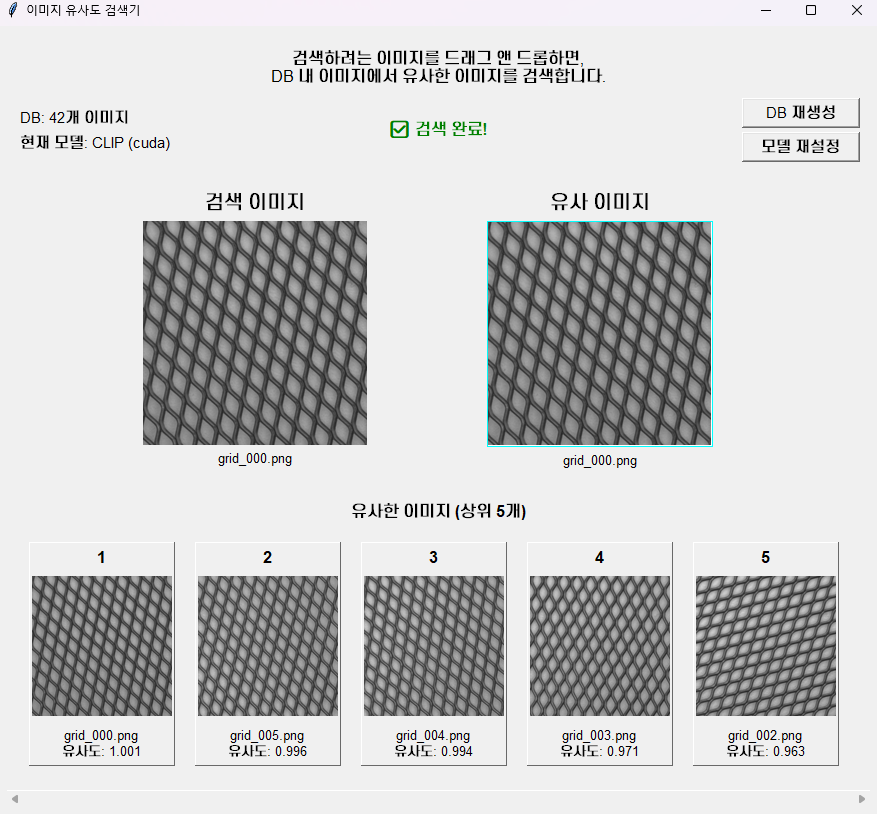
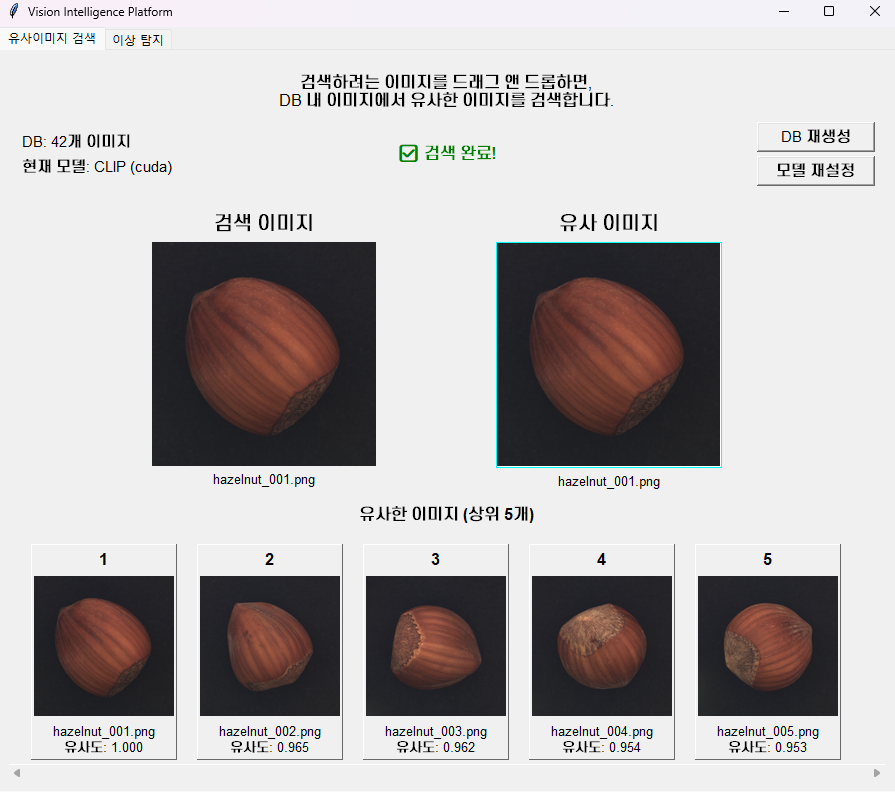
Update README

diff --git a/README.md b/README.md
@@ -3,7 +3,10 @@
 CLIP / ResNet-50 기반 이미지 유사도 검색과 AutoEncoder 기반 비지도 이상 탐지를 통합한 GUI 애플리케이션입니다.  
 MVTec-AD 데이터셋을 기준으로 정량 평가 및 실험 분석을 수행했습니다.
 
-<img src="assets/result_similarity.png" width="60%"/>
+<div style="display: flex; gap: 10px;">
+    <img src="assets/result_similarity.png" width="40%"/>
+    <img src="assets/result_anomaly.png" width="40%"/>
+</div>
 
 ---
 
